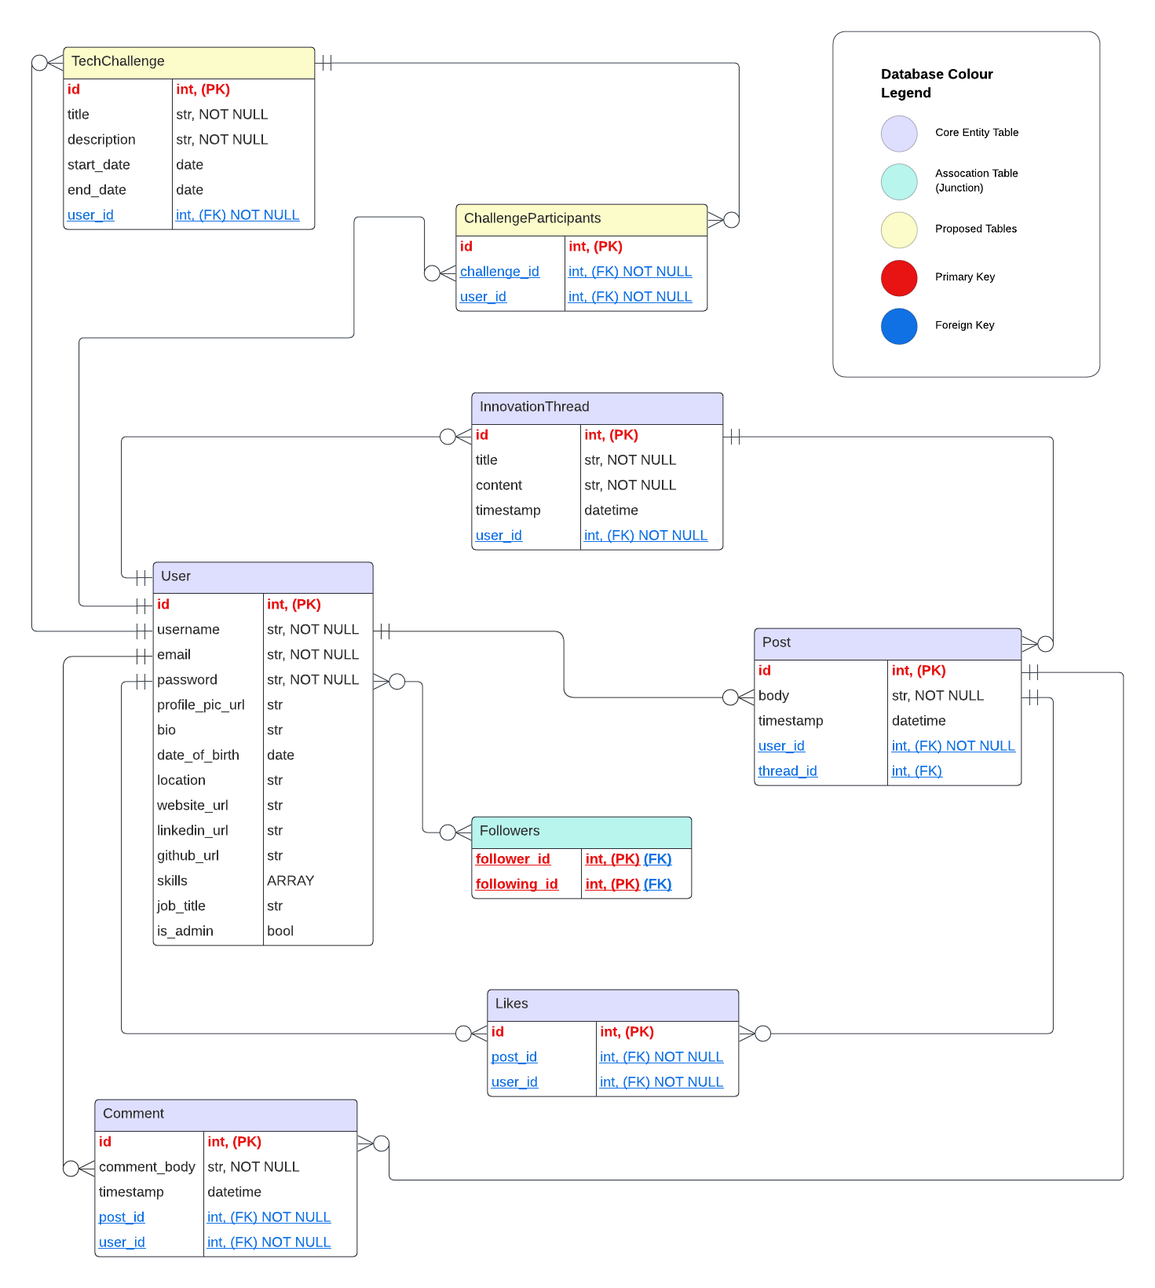
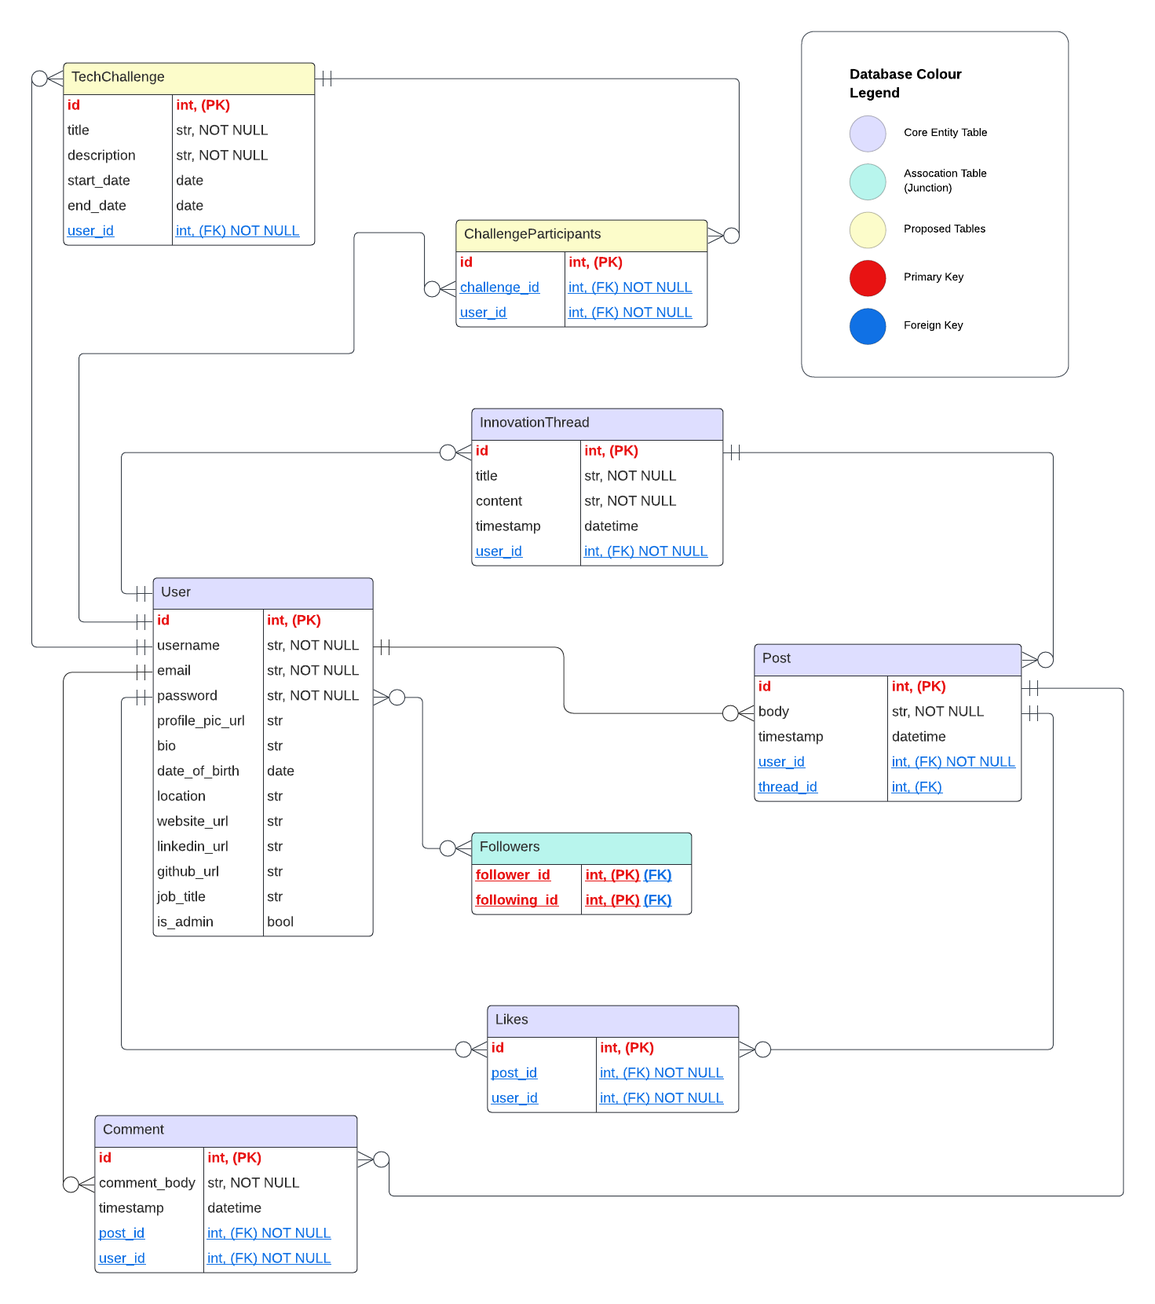
question 4 completed

diff --git a/src/controllers/cli_controllers.py b/src/controllers/cli_controllers.py
@@ -39,7 +39,6 @@ def seed_tables():
             website_url="http://admin.com",
             linkedin_url="http://linkedin.com/admin",
             github_url="http://github.com/admin",
-            skills=["Python", "Java", "C++"],
             job_title="Admin"
         ),
         User(
@@ -53,7 +52,6 @@ def seed_tables():
             website_url="http://user1.com",
             linkedin_url="http://linkedin.com/user1",
             github_url="http://github.com/user1",
-            skills=["Javascript", "React", "Node.js"],
             job_title="Software Developer"
         ),
         User(
@@ -67,7 +65,6 @@ def seed_tables():
             website_url="http://user2.com",
             linkedin_url="http://linkedin.com/in/user2",
             github_url="http://github.com/user2",
-            skills=["Java", "Spring", "Docker"],
             job_title="Backend Engineer"
         ),
         User(
@@ -81,7 +78,6 @@ def seed_tables():
             website_url="http://user3.com",
             linkedin_url="http://linkedin.com/in/user3",
             github_url="http://github.com/user3",
-            skills=["Machine Learning", "Data Science", "Python"],
             job_title="Data Scientist"
         )
     ]

diff --git a/src/models/user.py b/src/models/user.py
@@ -18,7 +18,6 @@ class User(db.Model):
     website_url = db.Column(db.String)
     linkedin_url = db.Column(db.String)
     github_url = db.Column(db.String)
-    skills = db.Column(db.ARRAY(db.String))
     job_title = db.Column(db.String)
     is_admin = db.Column(db.Boolean, default=False)
 

diff --git a/README.md b/README.md
@@ -5,18 +5,21 @@
 
 This API is designed as a specialised social media platform specifically for software developers; providing a centralised hub to bridge the gap between developers and cutting-edge technology innovation. The platform caters specifically to develoeprs who are interested in experimenting with and contributing to developer who are interested in experimenting with and contributing to emerging technologies: For example, AI, blockchain, quantum computing and emerging programming languages. Users can create posts detailing their experiments, showcase prototypes, and share insights on novel techniques and tools. Similarly, users are also able to engage in "Innovation Threads" that track the development of new ideas and concepts within these fields.
 
-Furthermore, this platform aims to streamline these interactions by consolidating various community-building aspects into one dedicated space. The follower/following feature offers users control over their feed, ensuring that content is tailored to their interests and visibility preferences. Additionally, the like and comment functionalities are designed to foster engagement and strengthen relationships within the developer community. In addition to traditional social media functionalities, this platform also incorporates features tailored to innovation and collaboration. This approach not only enhances commnication and collaboration but also ensures that users can easily navigate and contribute to a vibrant, interconnected network.
+Furthermore, this platform aims to streamline these interactions by consolidating various community-building aspects into one dedicated space. The follower/following feature offers users to customise their feed to include updates on technologies of their interest, influential tech leaders and groundbreaking research. Additionally, the like and comment functionalities are designed to foster engagement and strengthen relationships within the developer community. In addition to traditional social media functionalities, this platform also incorporates features tailored to innovation and collaboration. This approach not only enhances commnication and collaboration but also ensures that users can easily navigate and contribute to a vibrant, interconnected network. Users can also create their own "Innovation Threads" in which they can track the development of new ideas within the community and exchange their opinions on emerging technology. Within my ERD I've included a proposed feature called "Tech Challenges", where users can propose and solve technology-related problems. Despite my belief that this is a strong idea, it ultimately wasn't included in the final application due to time constraints.
+
+This application aims to achieve several key objectives. Firstly, it seeks to strengthen community relationships within the tech community. Secondly, it strives to facilitate developer engagement in innovation and by helping the identify gaps in emerging and evolving fields. By staying abreast of trends and offering a welcoming platform for open discussion, this platform will enable community members to meet these goals effectively.
 
 
 ```
-Users can participate in "Tech Challenges," where they can propose and solve technology-related problems, engage in "Innovation Threads" that track the development of new ideas, and collaborate on open-source projects within the platform. The follower/following system allows users to customize their feeds to include updates on technologies of their interest, influential tech leaders, and groundbreaking research.
+- propose this is used internally within a company? -- this may consolidate team relationships, promote professional development, improve product outcomes, create novel solutions in the software domain
 
-The platform also includes a "Tech Trends" feature that aggregates and highlights the latest advancements and discussions in various tech fields, keeping users at the forefront of industry developments. This unique approach not only fosters a community centered around technological innovation but also provides a dedicated space for developers to drive and participate in the future of technology.
-
-objective references and statistics to support this answer
-- mention the competitors: Linkedin, Medium, Stackoverflow, Reddit, Substack
+- research developer communities
+- trends in community engagement
+- successful developer platforms
 
 ```
+
+
 
 ### 2. Describe the way tasks are allocated and tracked in your project.
 **includes proof of thorough usage of specific task management tools through the length of the project**
@@ -50,22 +53,56 @@ I developed an implementation plan using a Kanban board in Github Projects, whic
 ### 4. Explain the benefits and drawbacks of this app’s underlying database system.
 
 
+
+PostgreSQL is an advanced, open-source relational database management system (RDBMS) which I've employed as the underlying database system within this API. It supports SQL for relational queries and JSON for non-relational queries, creating a powerful and flexible data framework for a wide range of applications. As a fully ACID-compliant database, PostgreSQL not only ensures reliable transactions and data integrity, but also boasts advanced features; such as complex query capabilities, indexing, full-text search, and support for custom data types and functions.
+
+
+**Benefits**
+
+
+_1. ACID Compliance:_ PostgreSQL is fully ACID-compliant, ensuring data integrity, as well as reliable transactions. This is crucial for applications requiring consistent and accurate data.
+
+
+_2. Advanced Features:_ PostgreSQL provides advance features like complex queries, foreign keys, triggers, views and stored procedures, in order to enable sophisticated data manipulation and the implementation of business logic directly within the database.
+
+
+_3. Extensibility:_ PostgreSQL's is a highly extensible system, offering a myriad of customisable options to the user to meet their specific application needs. Users can define their own data types, index types, and functional languages. It is also a packaging tool for database add-ons, supporting languages like PL/pgSQL, PL/Python, Java, and even JavaScript; allowing developers to write and run functions in various languages within the database by exposing an interface for language integration. This interface enables seamless execution of functions regardless of their underlying language, thus simplifying complexity by providing an extensible language function. This capability allows larger companies to develop functional packages tailored to their specific business domains.
+
+
+_4. Performance:_ PostgreSQL supports complex queries, foreign keys, triggers, views, and stored procedures, enabling sophisticated data manipulation and business logic directly within the database. Its powerful indexing and optimization techniques make it suitable for managing large datasets and high-concurrency environments efficiently. Additionally, it uses Multi-Version Concurrency Control (MVCC) to handle concurrent processing and maintain high transaction rates with minimal risk of deadlocks, as well as ensuring high availability and provides server failure recovery mechanisms.
+
+
+_5. Open Source:_ PostgreSQL being open source is highly beneficial as it is cost-effective, reducing database management expenses since it is free to use. It enjoys strong community support, with a large and active developer base ensuring rapid bug fixes, regular updates, and abundant resources. The open-source nature allows for high flexibility and customization, enabling users to modify the source code to meet specific needs. Additionally, it offers transparency for inspecting code security and reliability, fosters innovation through global collaboration, and avoids vendor lock-in, providing freedom in choosing support and services.
+
+
+
+**Drawbacks:**
+
+
+_1. Complexity:_ Due to its advanced features and extensive configuration options, PostgreSQL can be more complex to set up and maintain compared to simpler databases like SQLite.
+
+_2. Resource Intensive:_ PostgreSQL can be more resource-intensive, requiring more memory and CPU than other databases, which might be a concern for smaller applications or those running on limited hardware.
+
+_4. Learning Curve:_ The richness of features means there is a steeper learning curve for new users or developers who are not familiar with its capabilities and configuration options. It has also been noted that the initial installation may also be difficult for beginners.
+
+_5. Scaling Write Operations:_ While PostgreSQL handles read operations very efficiently, scaling write operations across multiple servers can be challenging and may require additional tools and configurations (e.g., sharding, replication).
+
+_6. Slower performance:_ As this database has a stronger focus on delivering compatibility, the speed of performance has been impacted when compared to other RDBMS like SQL Server and MySQL. It has also been noted that some SELECT queries may be slower than their counterparts. 
+
+
+
 ### 5. Explain the features, purpose and functionalities of the object-relational mapping system (ORM) used in this app.
 
-The object-relational mapping (ORM) system I have used within this API is SQLAlchemy. I opted to use SQLAlchemy as it provides high-level abstraction for interacting with relational databases. In this particular API, the database I have employed is PostgreSQL.
+
+The object-relational mapping (ORM) system I have used within this API is SQLAlchemy. I opted to use SQLAlchemy as it provides high-level abstraction for interacting with relational databases. This abstraction simplifies database oeprations, enhances code readability and reduces risk of SQL injection.
 
 
-_1) Entity Relationship Diagram_
-
-To ensure a robust ORM setup for my API, the first step is creating an Entity Relationship Diagram (ERD). The ERD presents a visual representation of each table, including their attributes, primary keys and foreign keys, as well as the relationships between the tables. This approach defines unique identifiers, enforces referential integreity and aids in promoting data normalisation to minmise data redundancy and duplication.
-
-
-_2) Mapping Classes (Models) to Tables_
+_1) Mapping Classes (Models) to Tables_
 
 Within the "models" folder is a series of files, each containing the models and schema of each main data table. Each 'entity' in the ERD are translated into SQLAlchemy models: Within my code, the `InnovationThread`, `User`, `Post`, `Comment`, `Like` and `Follower` classes are the models I've created, passing the `(db.Model)` attribute so that SQLAlchemy can recognise these classes are the objects to be mapped into the relational database as tables. Each of the attributes within the ERD are defined as columns using `db.Column` and data types and constraints are specified (e.g. `comment_body = db.Column(db.String, nullable=False)`). This is necessary in order for SQLAlchemy to understand how to accurately translate the data into the database.
 
 
-_3) Relationships and Associations_
+_2) Relationships and Associations_
 
 These models are also used to establish the relationships and associations within object relational mapping. Within these models, the relationships (which would mirror those of the ERD) have also be defined using the the 'back_populates' attribute. For example, the use of `user = db.relationship("User", back_populates="threads")` in the "InnovationThread" Model ensures that the `User` model's `threads` attribute is kept in sync, allowing bidirectional access between threads and their associated user. However, these attributes/associations look different depending on the intended nature of the entity relationship. For example, the `User` class has a one-to-many relationship with the `InnovationThread` and `Post` classes, as specified here:
 ```
@@ -80,13 +117,13 @@ followed_id = db.Column(db.Integer, db.ForeignKey('users.id'), primary_key=True)
 follower = db.relationship("User", foreign_keys=[follower_id], back_populates="following_assoc")
 followed = db.relationship("User", foreign_keys=[followed_id], back_populates="followers_assoc")
 ```
-This setup, in turn, allows users to follow each other, thus facilitating a dynamic social network.
+This setup allows users to follow each other, thus facilitating a dynamic social network.
 
 
-_4) Validation & Constraints_
+_3) Validation & Constraints_
 
 
-I have also used SQLAlchemy to enforce data constraints and validations directly within my model definitions. For example, in this `InnovationThread` class, the `title` column has a constraint to ensure that it is not left empty and does not exceed 100 characters.
+SQLAlchemy enforces constraints and validations directly within my model definitions. For example, in this `InnovationThread` class, the `title` column has a constraint to ensure that it is not empty and does not exceed 100 characters.
 ```
     @validates('title')
     def validate_title(self, key, title):
@@ -105,6 +142,68 @@ Furthermore, I have also defined unique constraints, such as in the `Follower` c
     )
 ```
 
+
+
+
+
+
+
+
+
+```
+4) Schema Definitions and Serialization
+
+To facilitate data transfer, Marshmallow is used for schema definitions and serialization. Each model has a corresponding schema, ensuring data is formatted correctly when sent to clients. For example, UserSchema includes fields for posts, comments, and excludes sensitive information like passwords:
+```
+class UserSchema(ma.SQLAlchemyAutoSchema):
+    class Meta:
+        model = User
+        exclude = ("password",)
+    posts = ma.Nested(PostSchema, many=True)
+
+```
+5) CRUD Operations
+SQLAlchemy simplifies implementing CRUD operations. For instance, creating a new post involves instantiating a Post object and adding it to the session:
+```
+new_post = Post(title="New Post", content="Content here", user_id=1)
+db.session.add(new_post)
+db.session.commit()
+
+```
+6) Querying and Filtering
+SQLAlchemy provides powerful querying capabilities. For example, filtering posts by a specific user can be done using:
+```
+user_posts = Post.query.filter_by(user_id=1).all()
+
+```
+This enhances efficiency by allowing complex queries with simple syntax.
+SQLAlchemy supports transactions and rollbacks, ensuring data integrity. If an operation fails, changes can be rolled back:
+```
+try:
+    db.session.commit()
+except Exception:
+    db.session.rollback()
+    raise
+
+```
+
+7) Transactions and Rollbacks
+SQLAlchemy supports transactions and rollbacks, ensuring data integrity. If an operation fails, changes can be rolled back:
+```
+try:
+    db.session.commit()
+except Exception:
+    db.session.rollback()
+    raise
+
+```
+This prevents partial updates and maintains database consistency.
+
+
+SQLAlchemy's ORM features facilitate seamless integration between Python code and relational databases. By abstracting complex database operations, it enhances code readability, security, and maintainability, making it an essential component of this API.
+
+```
+
 ### 6. Design an entity relationship diagram (ERD) for this app’s database, and explain how the relations between the diagrammed models will aid the database design. 
 ### This should focus on the database design BEFORE coding has begun, eg. during the project planning or design phase. (12 POINTS)
 
@@ -114,7 +213,7 @@ Furthermore, I have also defined unique constraints, such as in the `Follower` c
 
 
 
-To ensure a robust and efficient Object-Relational Mapping (ORM) setup for my API, the initial and crucial step is the creation of an Entity Relationship Diagram (ERD). An ERD provides a visual representation of each 'entity' as a table, detailing its attributes; including primary keys (PKs) and foreign keys (FKs). This diagram is instrumental in comprehansive planning and structuring of the ORM by defining unique identifiers for each table, which ensures that every record can be unniquely referenced and retrieved. Additionally, the ERD maps the relationships between entities: such as, one-to-many, many-to-one and many-to-many, allowing for a clear understanding of how data interrelates.
+To ensure a robust and efficient Object-Relational Mapping (ORM) setup for my API, the initial and crucial step is the creation of an Entity Relationship Diagram (ERD). An ERD provides a visual representation of each 'entity' as a table, detailing its attributes; including primary keys (PKs) and foreign keys (FKs). This diagram is instrumental in comprehansive planning and structuring of the ORM by defining unique identifiers for each table, which ensures that every record can be unniquely referenced and retrieved. Additionally, the ERD maps the relationships between entities: such as, one-to-many, many-to-one and many-to-many, allowing for a clear understanding of how data interrelates. This visual representation of the database is essential for designing the database schema in order to achieve data normalisation, which minimises redundancy and avoids data duplication, thus leading to a more consistent and manageable database. Furthermore, by illustrating FK relationships, the ERD aids in enforing referential integrity, thus ensuring that relationships between table are accurately maintained.
 
 My ERD is comprised of 8 entity tables, each representing a model/table within the database. Each entity has a header, which will ultimately be similar or identical to the names of the model classes within my API. However, I'm aware that I've included entities within this ERD that I may not have time to complete; you will see these represented in yellow to indicate they are "proposed" additional features. Each entity table has two columns; the left columns contain the attributes, while the right column contains the data type/contraints, and/or key type if applicable. Within my ERD design, I have colour-coded the header of each entity and constructed a "Database Colour Legend" so the viewer is able to easily identify what each colour signifies. This database legend also includes the colour legends of the primary and foreign keys:
 
@@ -131,18 +230,10 @@ My ERD is comprised of 8 entity tables, each representing a model/table within t
 
 I have used traditional ERD symbols in order to represent the relationships between the entities. The double line represents 'one-and-only-one', while the cirle with the extending crows foot symbol represents 'none-or-many'. For example, the line connecting the tables `User` and `Post` entities has a double line at the "user" end and the cirle crows foot symbol at the "post" end. This is because one (and only one) user can create many (or none, if they so desire) posts. Thus, as zero or many posts can belong to a single user, these symbols accurately represent the relationship between these two models. These symbols have been intentionally excluded from the database legend as they are customary and hence widely regonisable within a software development team.
 
-At first glance, one is able to see that this ERD adheres to the First Normal Form (1NF) of data normalisation, as each entity contains a single primary key to ensure unique records and every column contains atomic values (e.g. `username`, `email`). Furthermore, it also adheres to Second Normal Form (2NF) as it eliminates transitive dependencies. This is apparent as all key attributes depend on the entire primary key; for example, the use of the `ChallengeParticipants` junction table will mean that the `challenge_id` and `user_id` together form the composite key in order to handle many-to-many relationships.
+At first glance, one is able to see that this ERD adheres to the First Normal Form (1NF) of data normalisation, as each entity contains a single primary key to ensure unique records and every column contains atomic values (e.g. `username`, `email`). Furthermore, it also adheres to Second Normal Form (2NF) as all non-key attributes depend entirely on the primary key. This is apparent as all key attributes depend on the entire primary key; for example, the use of the `ChallengeParticipants` junction table will mean that the `challenge_id` and `user_id` together form the composite key in order to handle many-to-many relationships. Similary, the elimination of transitive dependencies also means that the ERD adheres to the Third Normal Form (3NF) of data normalisation. For example, within the `Followers` table, both `follower_id` and `following_id` are part of the composite primary key, ensuring each relationship is both uniquely and directly tied to the primary key. The ERD also conforms to the Boyce-Codd Normal Form (BCNF), as each determinant is a candidate key and there and no partial dependencies or transitive dependencies not addressed. It is likely that this ERD conforms to Fourth Normal Form (4NF) and Fifth Normal Form (5NF) as there are no apprent multiple-valued dependencies or complex join dependencies. However, this is difficult to delineate without specific use cases, as specific contexts may recover additional hidden dependencies. For example, within the `Tech Challenges` participants are able to join multiple challenges, and each challenge can have multiple paritcipants. Suppose each pariticpant in a challenge has aspecific roels or resources that depend on both the challenge and particiipant, forming a 3 way relationship. This would require the introduction of another joint table (e.g. `ChallengeRolesResources`)
+to handle these dependencies and avoid data redundancy.
 
-
-
-This visual representation of the database is essential for designing the database schema in order to achieve data normalisation, which minimises redundancy and avoids data duplication, thus leading to a more consistent and manageable database. Furthermore, by illustrating FK relationships, the ERD aids in enforing referential integrity, thus ensuring that relationships between table are accurately maintained.
-
-```
-- Create a detailed ERD with a detailed explanation of how all the relations depicted in the ERD are normalised
-- ERD must include a legend/key of the notation and styles, matching a notation or style identified in the accompanying explanation
-- Must include comparisons to how at least ONE model/relations would in other levels of normalisation that the one shown in the ERD
-```
-
+Consider the `User` table: if one of the optional attributes was "skills" with the data type "array", allowing developers to list their programming skills, this would impact which level of data normalisation the ERD adheres to. In this scenario, we are introducing a multi-value dependency within a single entity, which leaves the database vulnerable to data duplication or redundancy. In this context, it would not pass the 4NF level and would thus reduce the highest achieved normalisation level to 3NF overall.
 
 
 
@@ -337,3 +428,10 @@ After seeding the database, the column displayed should involve `id` (like_id, P
 
 ### REFERENCES
 
+
+
+https://www.geeksforgeeks.org/normal-forms-in-dbms/
+
+PostgreSQL vs. SQL Server: What’s the difference? (no date) Google Cloud. Available at: https://cloud.google.com/learn/postgresql-vs-sql#section-8.
+
+Mastering Relational Database Structure (2024) myscale.com. Available at: https://myscale.com/blog/essential-components-relational-database-structure/#the-logical-structure-tables-keys-and-relationships
